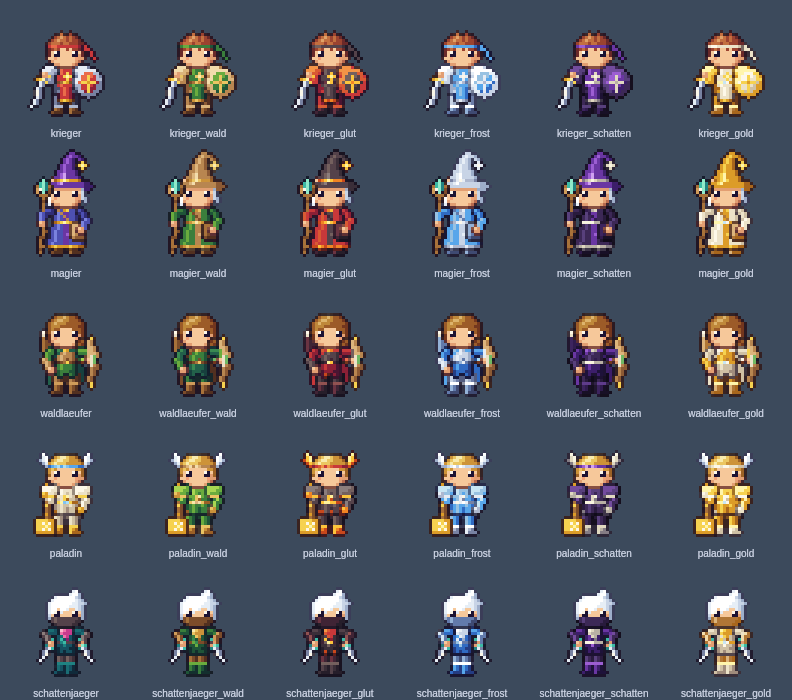
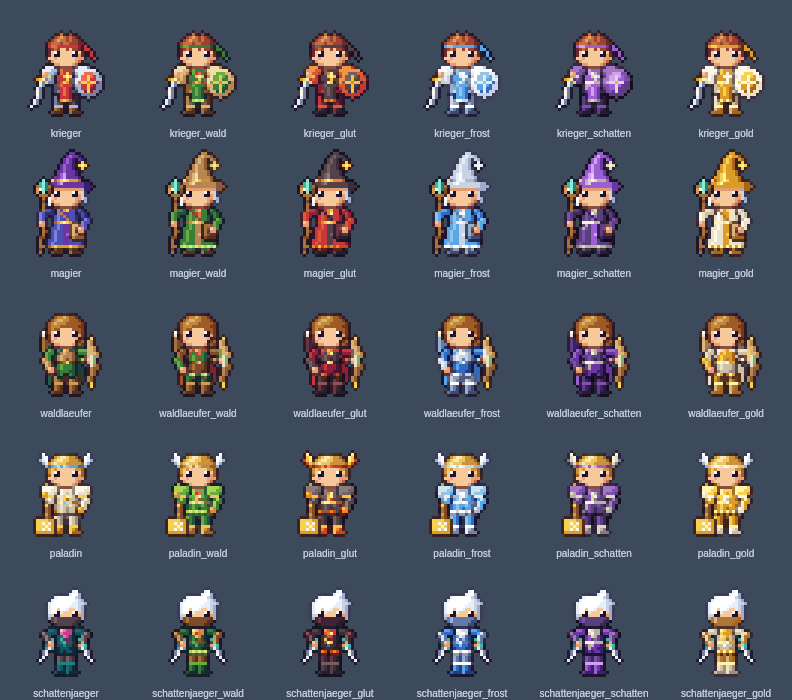
Gewänder überarbeitet: Waldläufer-Wald mit Herbstlaub-Umhang, Schatten heller, Gold-Krieger mit lesbarem Schild, Motive auf Brust und Saum
Claude-Session: https://claude.ai/code/session_01RqpoYuwkQgyKncWb2VSQum

diff --git a/client/src/gfx/chars/outfits.ts b/client/src/gfx/chars/outfits.ts
@@ -3,7 +3,7 @@
  * Eine Variante ist eine Umfärbung von Kleidung und Rüstung an der Quelle – Legende, Arm-/Beinfarben und alle
  * Kostüm-Ebenen (Umhang, Schulterstücke, Bänder, Taschen) werden über eine Farbtabelle auf die Rampen des Themas
  * gelegt, bevor Trennlinien und Außenkontur entstehen. Haut, Haar und Waffen bleiben; dazu kommt je Thema ein
- * kleines Motiv (Kragen, Gürtel, Saum) über zusätzliche Legendenzeichen y/Y/z/Z in den Rumpfkarten.
+ * Motiv (Kragen, Brust, Gürtel, Saum) über zusätzliche Legendenzeichen y/Y/z/Z in den Rumpfkarten.
  */
 import { Px } from '../draw';
 import { P, WHITE, mix } from '../palette';
@@ -15,10 +15,12 @@ import type { Art, Costume, Dir, Hook, ItemFn, Legend } from './rig';
 import { CLASSES, M_ROBE, P_SKY, S_COAL, S_PINK, S_TEAL } from './classes';
 
 type ClassId = (typeof CLASS_IDS)[number];
-type Role = 'main' | 'deep' | 'alt' | 'trim' | 'leather' | 'keep';
+type Role = 'main' | 'deep' | 'alt' | 'trim' | 'leather' | 'accent' | 'keep';
 interface Theme {
   /** Hauptstoff · dunklere Zweitfarbe desselben Tons · Gegenfarbe (Rüstung, Hut, Leder) · Zierrat · Riemen und Stiefel */
   main: Ramp; deep: Ramp; alt: Ramp; trim: Ramp; leather: Ramp;
+  /** Sonderfarbe für einzelne Klassen (Rolle `accent`); fehlt sie, gilt `trim` */
+  accent?: Ramp;
   /** Motivfarben für die Legendenzeichen y, Y, z, Z */
   motif: [number, number, number, number];
   /** Stulpenfarbe der Stiefel (überschreibt die umgefärbte) */
@@ -29,7 +31,9 @@ const THEMES: Record<OutfitId, Theme> = {
   // Waldgewand: Laubgrün und Rindenbraun, Ocker als Zierrat, Blätterkragen mit roten Beeren
   wald: {
     main: P.green, deep: P.forest, alt: P.tan, trim: mixR(P.gold, P.tan, 0.45), leather: P.wood,
-    motif: [P.green[3], P.green[4], P.red[2], P.red[3]],
+    // Herbstlaub (Umhang des Waldläufers)
+    accent: [mix(P.red[0], P.wood[0], 0.5), mix(P.red[1], P.wood[1], 0.35), mix(P.fire[1], P.tan[1], 0.4), mix(P.fire[2], P.tan[2], 0.4), mix(P.fire[3], P.tan[3], 0.45)],
+    motif: [P.green[4], mix(P.green[4], P.gold[4], 0.6), P.red[2], P.red[3]],
   },
   // Glutgewand: Glutrot und Kohlschwarz, Zierrat in Flammenfarben, glimmende Schnalle und Funken am Saum
   glut: {
@@ -50,11 +54,12 @@ const THEMES: Record<OutfitId, Theme> = {
   },
   // Schattengewand: Violett und Schwarz, bleicher Zierrat, bleiche Schärpe
   schatten: {
-    main: P.violet,
-    deep: [P.shadow[0], P.violet[0], P.violet[1], P.violet[2], P.violet[3]],
-    alt: [P.shadow[1], P.shadow[2], P.shadow[3], P.shadow[4], mix(P.shadow[4], P.violet[3], 0.4)],
+    // (eine Stufe heller als die Palettenrampen: auf dunklem Dungeonboden versank die Figur sonst)
+    main: [P.violet[1], P.violet[2], P.violet[3], P.violet[4], mix(P.violet[4], WHITE, 0.45)],
+    deep: P.violet,
+    alt: [P.shadow[2], P.shadow[3], P.shadow[4], mix(P.shadow[4], P.violet[3], 0.55), mix(P.violet[3], P.bone[2], 0.3)],
     trim: P.bone,
-    leather: [P.shadow[0], P.shadow[1], mix(P.shadow[2], P.violet[1], 0.4), mix(P.shadow[3], P.violet[1], 0.4), mix(P.shadow[4], P.violet[2], 0.4)],
+    leather: [P.shadow[1], P.shadow[2], mix(P.shadow[3], P.violet[1], 0.4), mix(P.shadow[4], P.violet[2], 0.4), mix(P.shadow[4], P.violet[3], 0.6)],
     motif: [P.bone[2], P.bone[4], P.bone[3], WHITE],
   },
   // Goldgewand (das Prunkstück): Weiß und Gold, Goldkragen, Goldgürtel mit hellem Stein
@@ -78,20 +83,22 @@ interface ClassOutfit {
 }
 const all = (r: Role[]): Record<OutfitId, Role[]> => ({ wald: r, glut: r, frost: r, schatten: r, gold: r });
 const CLASS_OUTFIT: Record<ClassId, ClassOutfit> = {
-  // Waffenrock · Plattenteile · Zierrat · Gürtel und Stiefel (im Glutgewand vertauscht: schwarzer Rock, glutrote Platten – der Rock ist schon rot)
+  // Waffenrock · Plattenteile · Zierrat · Gürtel und Stiefel (im Glutgewand vertauscht: schwarzer Rock, glutrote Platten – der Rock ist schon rot;
+  // im Goldgewand goldener Rock und goldenes Schildfeld mit weißen Platten und weißem Kreuz – Gold auf Weiß war nicht zu lesen)
   krieger: {
     src: [{ c: P.red }, { c: P.steel }, { c: P.gold }, { c: P.wood }], off: true,
-    roles: { ...all(['main', 'alt', 'trim', 'leather']), glut: ['alt', 'main', 'trim', 'leather'] },
+    roles: { ...all(['main', 'alt', 'trim', 'leather']), glut: ['alt', 'main', 'trim', 'leather'], gold: ['alt', 'main', 'main', 'leather'] },
   },
   // Robe · Hut · Borten und Stern · Riemen und Tasche · Schuhe (im Schattengewand: schwarze Robe, violetter Hut)
   magier: {
     src: [{ c: M_ROBE }, { c: P.violet }, { c: P.gold }, { c: P.tan }, { c: P.wood }],
     roles: { ...all(['main', 'alt', 'trim', 'leather', 'leather']), schatten: ['alt', 'main', 'trim', 'leather', 'leather'] },
   },
-  // Umhang und Kapuzenkragen · Rock · Lederwams · Schnalle · Gürtel, Köcher, Stiefel (im Waldgewand vertauscht: Rindenumhang, grünes Wams)
+  // Umhang und Kapuzenkragen · Rock · Lederwams · Schnalle · Gürtel, Köcher, Stiefel (im Waldgewand: Umhang in Herbstlaub-Rot, Rindenrock,
+  // hellgrünes Wams – der Grundlook ist selbst schon grün, die frühere Vertauschung sah ihm zu ähnlich)
   waldlaeufer: {
     src: [{ c: P.forest }, { c: P.green }, { c: P.tan }, { c: P.gold }, { c: P.wood }],
-    roles: { ...all(['main', 'deep', 'alt', 'trim', 'leather']), wald: ['leather', 'deep', 'main', 'trim', 'leather'] },
+    roles: { ...all(['main', 'deep', 'alt', 'trim', 'leather']), wald: ['accent', 'leather', 'main', 'trim', 'leather'] },
   },
   // Rüstung · Gold (Borten, Handschuhe, Stiefel) · Umhang, Stirnband und Stein · Helmflügel · Leder
   paladin: {
@@ -121,17 +128,25 @@ function mapRow(a: Art, row: number, fn: (ch: string, j: number, n: number) => s
   return { rows: a.rows.map((r, i) => (i === row ? out : r)), w: a.w, ay: a.ay };
 }
 const BELT = 5;
+/** setzt in einer Zeile einzelne Zeichen: pick(laufende Nummer, Anzahl) → Zeichen oder nichts */
+const at = (a: Art, row: number, pick: (j: number, n: number) => string | undefined): Art => mapRow(a, row, (ch, j, n) => pick(j, n) ?? ch);
+/** Zeichen auf der Brust (Zeile 2): von vorn zwei Pixel in der Mitte, von der Seite eins vorn; von hinten nichts */
+const chest = (a: Art, dir: Dir, c0: string, c1: string): Art => (dir === 2 ? a : at(a, 2, (j, n) => (dir === 0 ? (j === (n >> 1) - 1 ? c0 : j === n >> 1 ? c1 : undefined) : j === n - 2 ? c1 : undefined)));
+/** Die Kragenzeile liegt meist unter Kinn und Bart – jedes Thema trägt sein Motiv deshalb auch auf Brust und Saum. */
 const MOTIF: Record<OutfitId, (a: Art, dir: Dir) => Art> = {
-  // Blätterkragen: helle und dunkle Blätter, dazwischen Beeren
-  wald: (a) => mapRow(a, 0, (_, j) => (j % 3 === 1 ? 'z' : j % 2 ? 'y' : 'Y')),
-  // glimmende Schnalle (vorn Mitte, seitlich vorn) und Funken am Saum
-  glut: (a, dir) => mapRow(mapRow(a, BELT, (ch, j, n) => (dir === 0 && (j === (n >> 1) - 1 || j === n >> 1) ? (j === n >> 1 ? 'z' : 'Z') : dir === 1 && j === n - 1 ? 'Z' : ch)), -1, (ch, j) => (j % 3 === 1 ? 'y' : ch)),
-  // Pelzkragen
-  frost: (a) => mapRow(a, 0, (_, j, n) => (j === n - 1 || j % 3 === 2 ? 'y' : 'Y')),
-  // bleiche Schärpe statt des Gürtels
-  schatten: (a) => mapRow(a, BELT, (_, j, n) => (j < n / 2 ? 'Y' : 'y')),
-  // Goldkragen und Goldgürtel mit hellem Stein
-  gold: (a, dir) => mapRow(mapRow(a, 0, (_, j, n) => (j === 0 || j === n - 1 ? 'y' : 'Y')), BELT, (_, j, n) => (dir === 0 && j === n >> 1 ? 'Z' : dir === 0 && j === (n >> 1) - 1 ? 'z' : dir === 1 && j === n - 1 ? 'Z' : j < n / 2 ? 'Y' : 'y')),
+  // Blätterkragen (helle und dunkle Blätter, dazwischen Beeren), zwei Beeren auf der Brust, Blättersaum
+  wald: (a, dir) => at(chest(mapRow(a, 0, (_, j) => (j % 3 === 1 ? 'z' : j % 2 ? 'y' : 'Y')), dir, 'z', 'Z'), -1, (j) => (j % 2 ? 'Y' : 'y')),
+  // glimmende Schnalle (vorn Mitte, seitlich vorn), Flamme auf der Brust, Funken am Saum
+  glut: (a, dir) => chest(mapRow(mapRow(a, BELT, (ch, j, n) => (dir === 0 && (j === (n >> 1) - 1 || j === n >> 1) ? (j === n >> 1 ? 'z' : 'Z') : dir === 1 && j === n - 1 ? 'Z' : ch)), -1, (ch, j) => (j % 2 ? 'y' : j % 4 === 0 ? 'Y' : ch)), dir, 'Y', 'Z'),
+  // Pelzkragen, Eisstern auf der Brust, Pelzsaum
+  frost: (a, dir) => at(chest(mapRow(a, 0, (_, j, n) => (j === n - 1 || j % 3 === 2 ? 'y' : 'Y')), dir, 'Z', 'Y'), -1, (j, n) => (j === n - 1 || j % 3 === 2 ? 'y' : 'Y')),
+  // bleiche Schärpe statt des Gürtels, ihr Ende hängt an der Seite herab; bleiche Sichel auf der Brust
+  schatten: (a, dir) => {
+    const tail = (j: number, n: number): string | undefined => (dir !== 2 && j === (dir === 0 ? 1 : n - 2) ? 'y' : undefined);
+    return at(at(chest(mapRow(a, BELT, (_, j, n) => (j < n / 2 ? 'Y' : 'y')), dir, 'Y', 'y'), BELT + 1, tail), BELT + 2, tail);
+  },
+  // Goldkragen, Goldgürtel mit hellem Stein, Goldsaum
+  gold: (a, dir) => at(mapRow(mapRow(a, 0, (_, j, n) => (j === 0 || j === n - 1 ? 'y' : 'Y')), BELT, (_, j, n) => (dir === 0 && j === n >> 1 ? 'Z' : dir === 0 && j === (n >> 1) - 1 ? 'z' : dir === 1 && j === n - 1 ? 'Z' : j < n / 2 ? 'Y' : 'y')), -1, (j) => (j % 2 ? 'y' : 'Y')),
 };
 
 // ---------------------------------------------------------------- Umfärben
@@ -141,7 +156,7 @@ function outfit(cls: ClassId, id: OutfitId): Costume {
   co.src.forEach((s, i) => {
     const role = roles[i];
     if (role === 'keep') return;
-    const to = th[role], at = s.at ?? (s.c.length === 5 ? [0, 1, 2, 3, 4] : [1, 2, 3, 4]);
+    const to = role === 'accent' ? th.accent ?? th.trim : th[role], at = s.at ?? (s.c.length === 5 ? [0, 1, 2, 3, 4] : [1, 2, 3, 4]);
     s.c.forEach((c, j) => map.set(c, to[at[j]]));
   });
   const m = (c: number): number => map.get(c) ?? c;

diff --git a/docs/ASSETS.md b/docs/ASSETS.md
@@ -80,35 +80,35 @@ Quelle jeder Grafik ist ein Zeichenprogramm in `client/src/gfx/` (siehe `docs/AR
 | `boss_vael` | 96×96 | 26 | idle 6, windup 2, attack 4, special 4, hit 2, death 8 |
 | `boss_ysolde` | 96×112 | 26 | idle 6, windup 2, attack 4, special 4, hit 2, death 8 |
 
-## Spritesheets: outfits (Garderobe; 25 Sheets, 384 kB; werden erst bei Bedarf geladen, Raster und Animationen wie das Klassen-Sheet)
+## Spritesheets: outfits (Garderobe; 25 Sheets, 385 kB; werden erst bei Bedarf geladen, Raster und Animationen wie das Klassen-Sheet)
 
 | Sheet | Klasse | Frame | Frames | Größe |
 |---|---|---|---|---|
 | `char_krieger_frost` | `char_krieger` | 32×40 | 129 | 14.6 kB |
 | `char_krieger_glut` | `char_krieger` | 32×40 | 129 | 14.7 kB |
-| `char_krieger_gold` | `char_krieger` | 32×40 | 129 | 14.1 kB |
-| `char_krieger_schatten` | `char_krieger` | 32×40 | 129 | 14.7 kB |
+| `char_krieger_gold` | `char_krieger` | 32×40 | 129 | 14.4 kB |
+| `char_krieger_schatten` | `char_krieger` | 32×40 | 129 | 14.8 kB |
 | `char_krieger_wald` | `char_krieger` | 32×40 | 129 | 14.6 kB |
-| `char_magier_frost` | `char_magier` | 32×40 | 129 | 17.0 kB |
+| `char_magier_frost` | `char_magier` | 32×40 | 129 | 16.9 kB |
 | `char_magier_glut` | `char_magier` | 32×40 | 129 | 17.0 kB |
 | `char_magier_gold` | `char_magier` | 32×40 | 129 | 16.7 kB |
-| `char_magier_schatten` | `char_magier` | 32×40 | 129 | 17.0 kB |
-| `char_magier_wald` | `char_magier` | 32×40 | 129 | 16.9 kB |
+| `char_magier_schatten` | `char_magier` | 32×40 | 129 | 17.2 kB |
+| `char_magier_wald` | `char_magier` | 32×40 | 129 | 16.8 kB |
 | `char_paladin_frost` | `char_paladin` | 32×40 | 129 | 14.9 kB |
 | `char_paladin_glut` | `char_paladin` | 32×40 | 129 | 14.9 kB |
-| `char_paladin_gold` | `char_paladin` | 32×40 | 129 | 14.4 kB |
-| `char_paladin_schatten` | `char_paladin` | 32×40 | 129 | 14.8 kB |
+| `char_paladin_gold` | `char_paladin` | 32×40 | 129 | 14.3 kB |
+| `char_paladin_schatten` | `char_paladin` | 32×40 | 129 | 14.9 kB |
 | `char_paladin_wald` | `char_paladin` | 32×40 | 129 | 15.1 kB |
 | `char_schattenjaeger_frost` | `char_schattenjaeger` | 32×40 | 129 | 14.5 kB |
-| `char_schattenjaeger_glut` | `char_schattenjaeger` | 32×40 | 129 | 14.6 kB |
-| `char_schattenjaeger_gold` | `char_schattenjaeger` | 32×40 | 129 | 14.5 kB |
-| `char_schattenjaeger_schatten` | `char_schattenjaeger` | 32×40 | 129 | 14.5 kB |
-| `char_schattenjaeger_wald` | `char_schattenjaeger` | 32×40 | 129 | 14.5 kB |
-| `char_waldlaeufer_frost` | `char_waldlaeufer` | 32×40 | 129 | 16.1 kB |
-| `char_waldlaeufer_glut` | `char_waldlaeufer` | 32×40 | 129 | 16.0 kB |
+| `char_schattenjaeger_glut` | `char_schattenjaeger` | 32×40 | 129 | 14.7 kB |
+| `char_schattenjaeger_gold` | `char_schattenjaeger` | 32×40 | 129 | 14.6 kB |
+| `char_schattenjaeger_schatten` | `char_schattenjaeger` | 32×40 | 129 | 14.6 kB |
+| `char_schattenjaeger_wald` | `char_schattenjaeger` | 32×40 | 129 | 14.7 kB |
+| `char_waldlaeufer_frost` | `char_waldlaeufer` | 32×40 | 129 | 16.2 kB |
+| `char_waldlaeufer_glut` | `char_waldlaeufer` | 32×40 | 129 | 16.1 kB |
 | `char_waldlaeufer_gold` | `char_waldlaeufer` | 32×40 | 129 | 15.6 kB |
-| `char_waldlaeufer_schatten` | `char_waldlaeufer` | 32×40 | 129 | 16.0 kB |
-| `char_waldlaeufer_wald` | `char_waldlaeufer` | 32×40 | 129 | 15.8 kB |
+| `char_waldlaeufer_schatten` | `char_waldlaeufer` | 32×40 | 129 | 16.1 kB |
+| `char_waldlaeufer_wald` | `char_waldlaeufer` | 32×40 | 129 | 16.1 kB |
 
 ## Atlas: obj (675 Frames, 2048×375)
 
